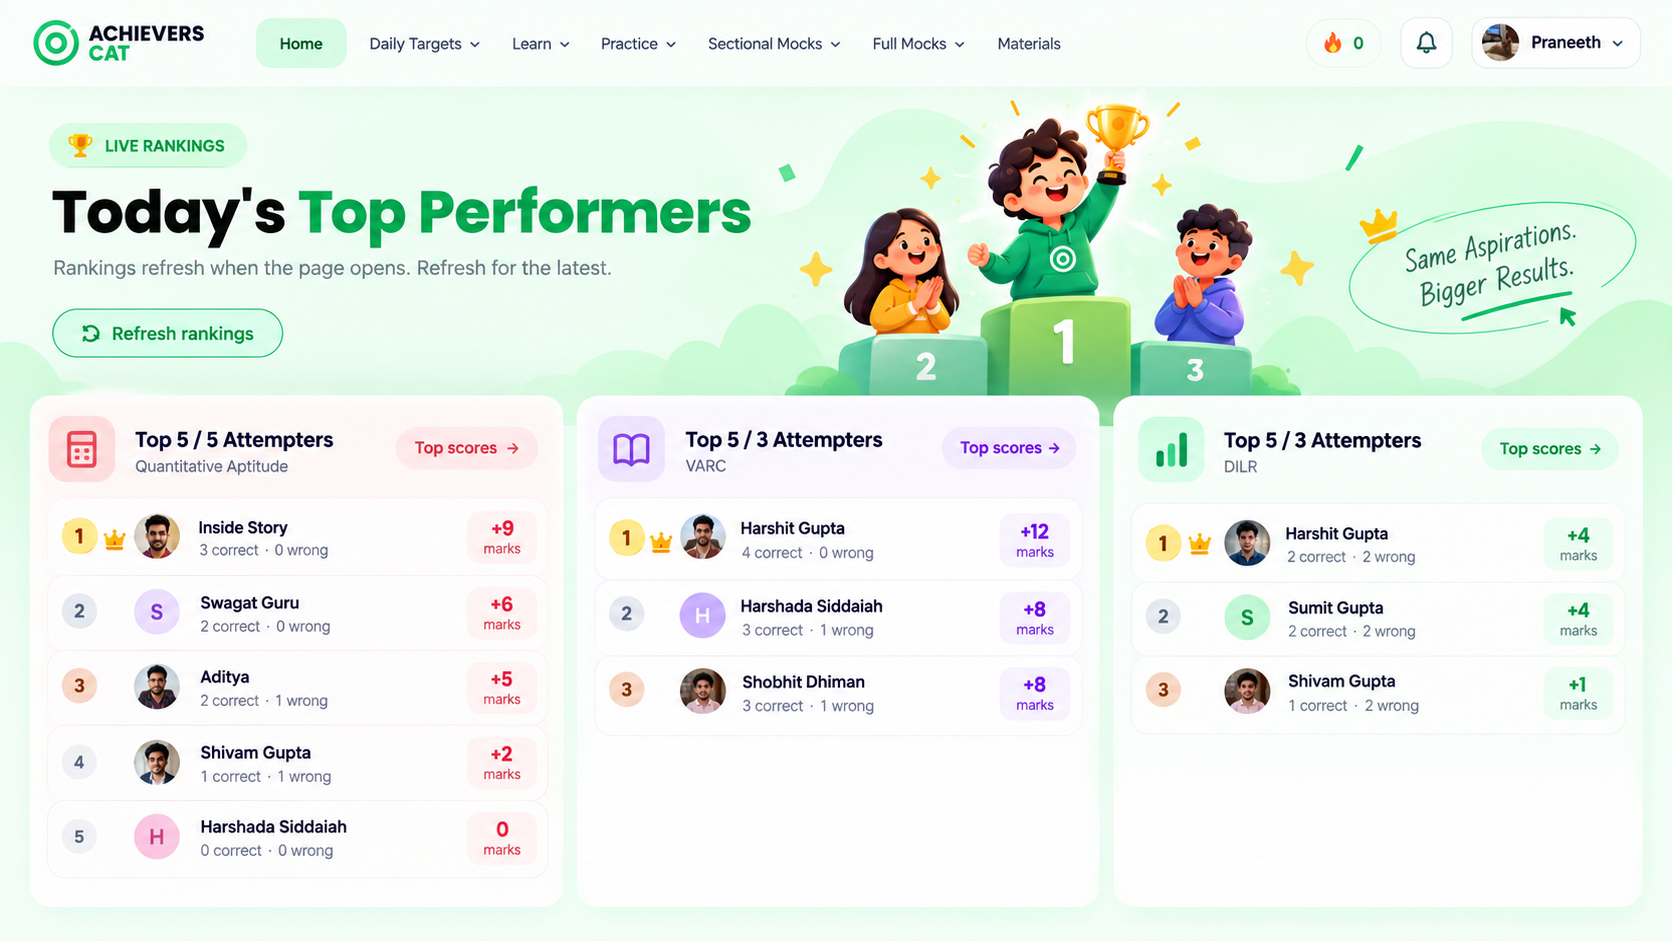
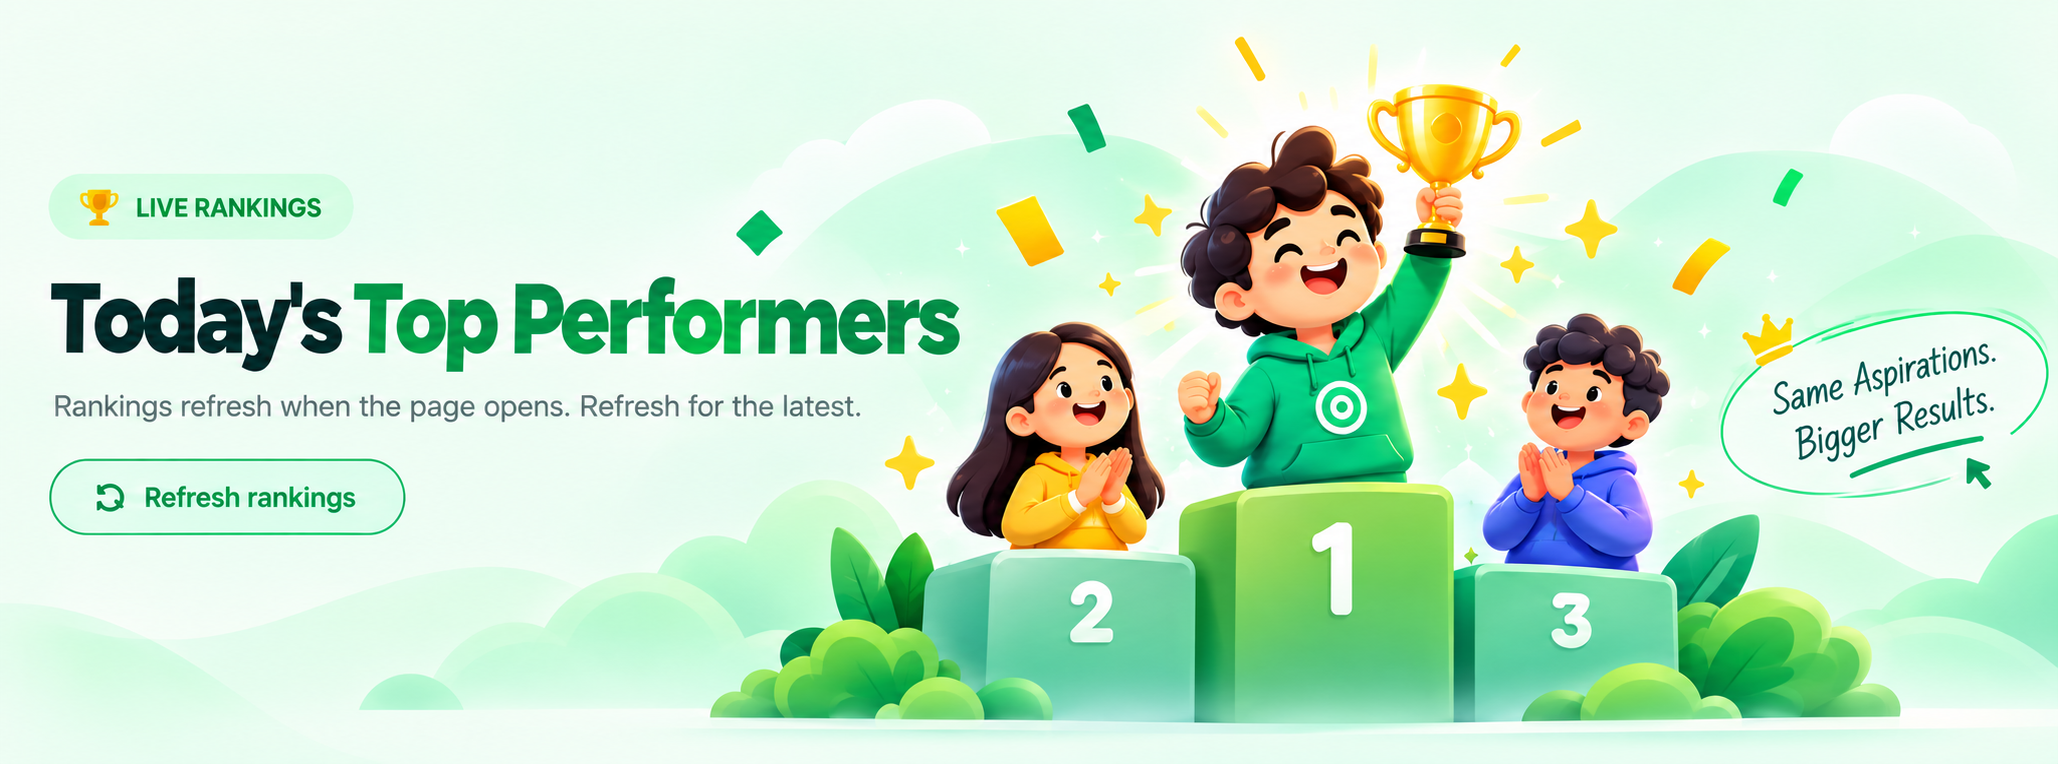
daily rankings modified

diff --git a/src/app/page.tsx b/src/app/page.tsx
@@ -22,6 +22,7 @@ import {
   Trophy,
   Loader2,
   X,
+  RefreshCw,
   BarChart3,
 } from "lucide-react";
 
@@ -700,7 +701,15 @@ export default function Home() {
       <section className="overflow-hidden bg-[#effdf5] pb-9 pt-0 sm:pb-12">
         <div className="relative mx-auto max-w-[2058px]">
           <Image src="/daily-rankings-hero.png" alt="Today's top performers celebrating on a winners podium" width={2058} height={764} sizes="100vw" priority className="block min-h-[245px] w-full object-cover object-center sm:min-h-0" />
-          <button type="button" onClick={() => setLeaderboardRefresh((v) => v + 1)} disabled={leaderboardLoading} aria-label="Refresh rankings" className="absolute bottom-[18%] left-[2.5%] h-[12%] w-[17%] min-h-9 min-w-36 rounded-full disabled:cursor-wait"><span className="sr-only">Refresh rankings</span></button>
+          <button
+            type="button"
+            onClick={() => setLeaderboardRefresh((v) => v + 1)}
+            disabled={leaderboardLoading}
+            aria-label="Refresh rankings"
+            className="absolute bottom-[18%] left-[2.5%] flex h-[12%] w-[17%] min-h-9 min-w-36 items-center justify-center rounded-full hover:bg-emerald-500/5 focus-visible:ring-2 focus-visible:ring-emerald-600 disabled:cursor-wait"
+          >
+            {leaderboardLoading ? <RefreshCw aria-hidden="true" className="h-5 w-5 animate-spin text-emerald-700" /> : <span className="sr-only">Refresh rankings</span>}
+          </button>
         </div>
 
         <div className="relative z-10 mx-auto -mt-2 grid max-w-[1660px] gap-4 px-4 sm:-mt-6 sm:px-6 lg:-mt-8 lg:grid-cols-3 lg:px-8">
